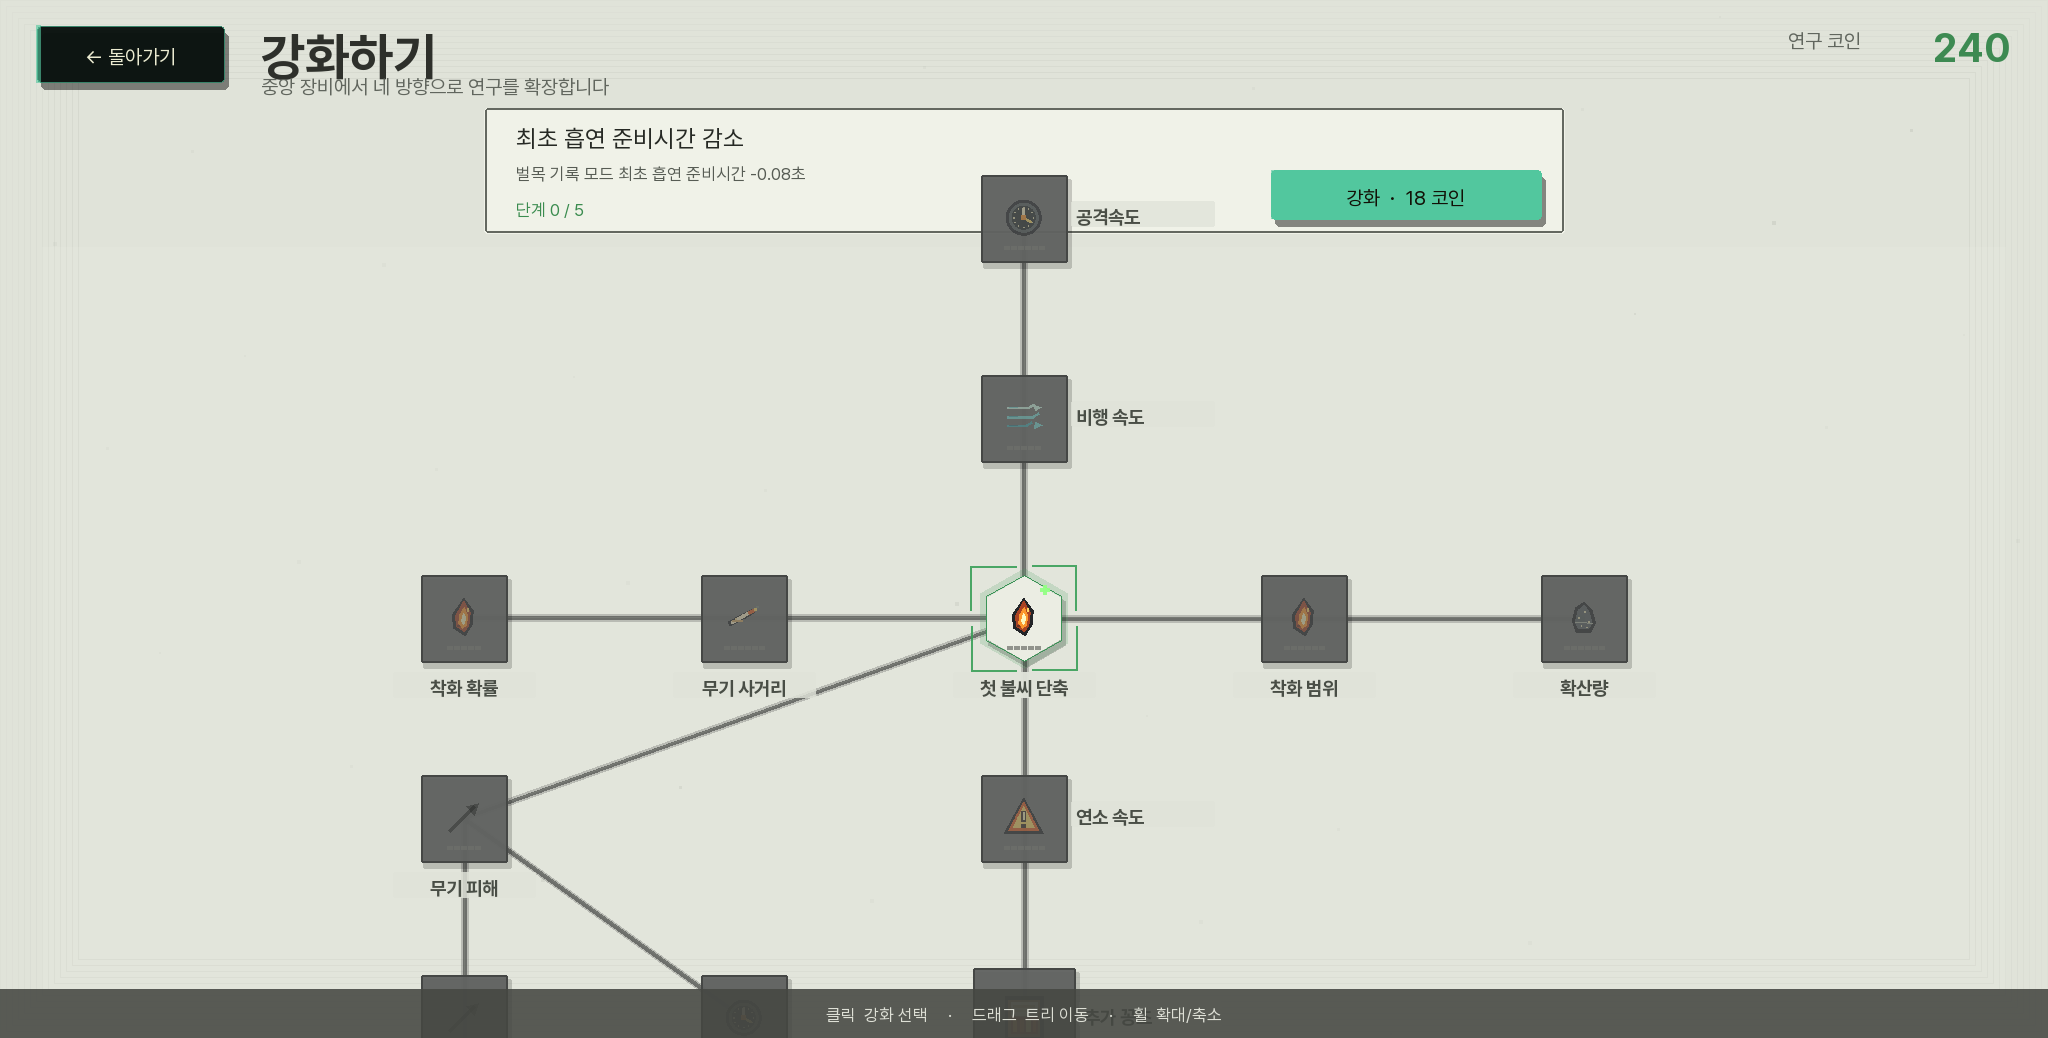
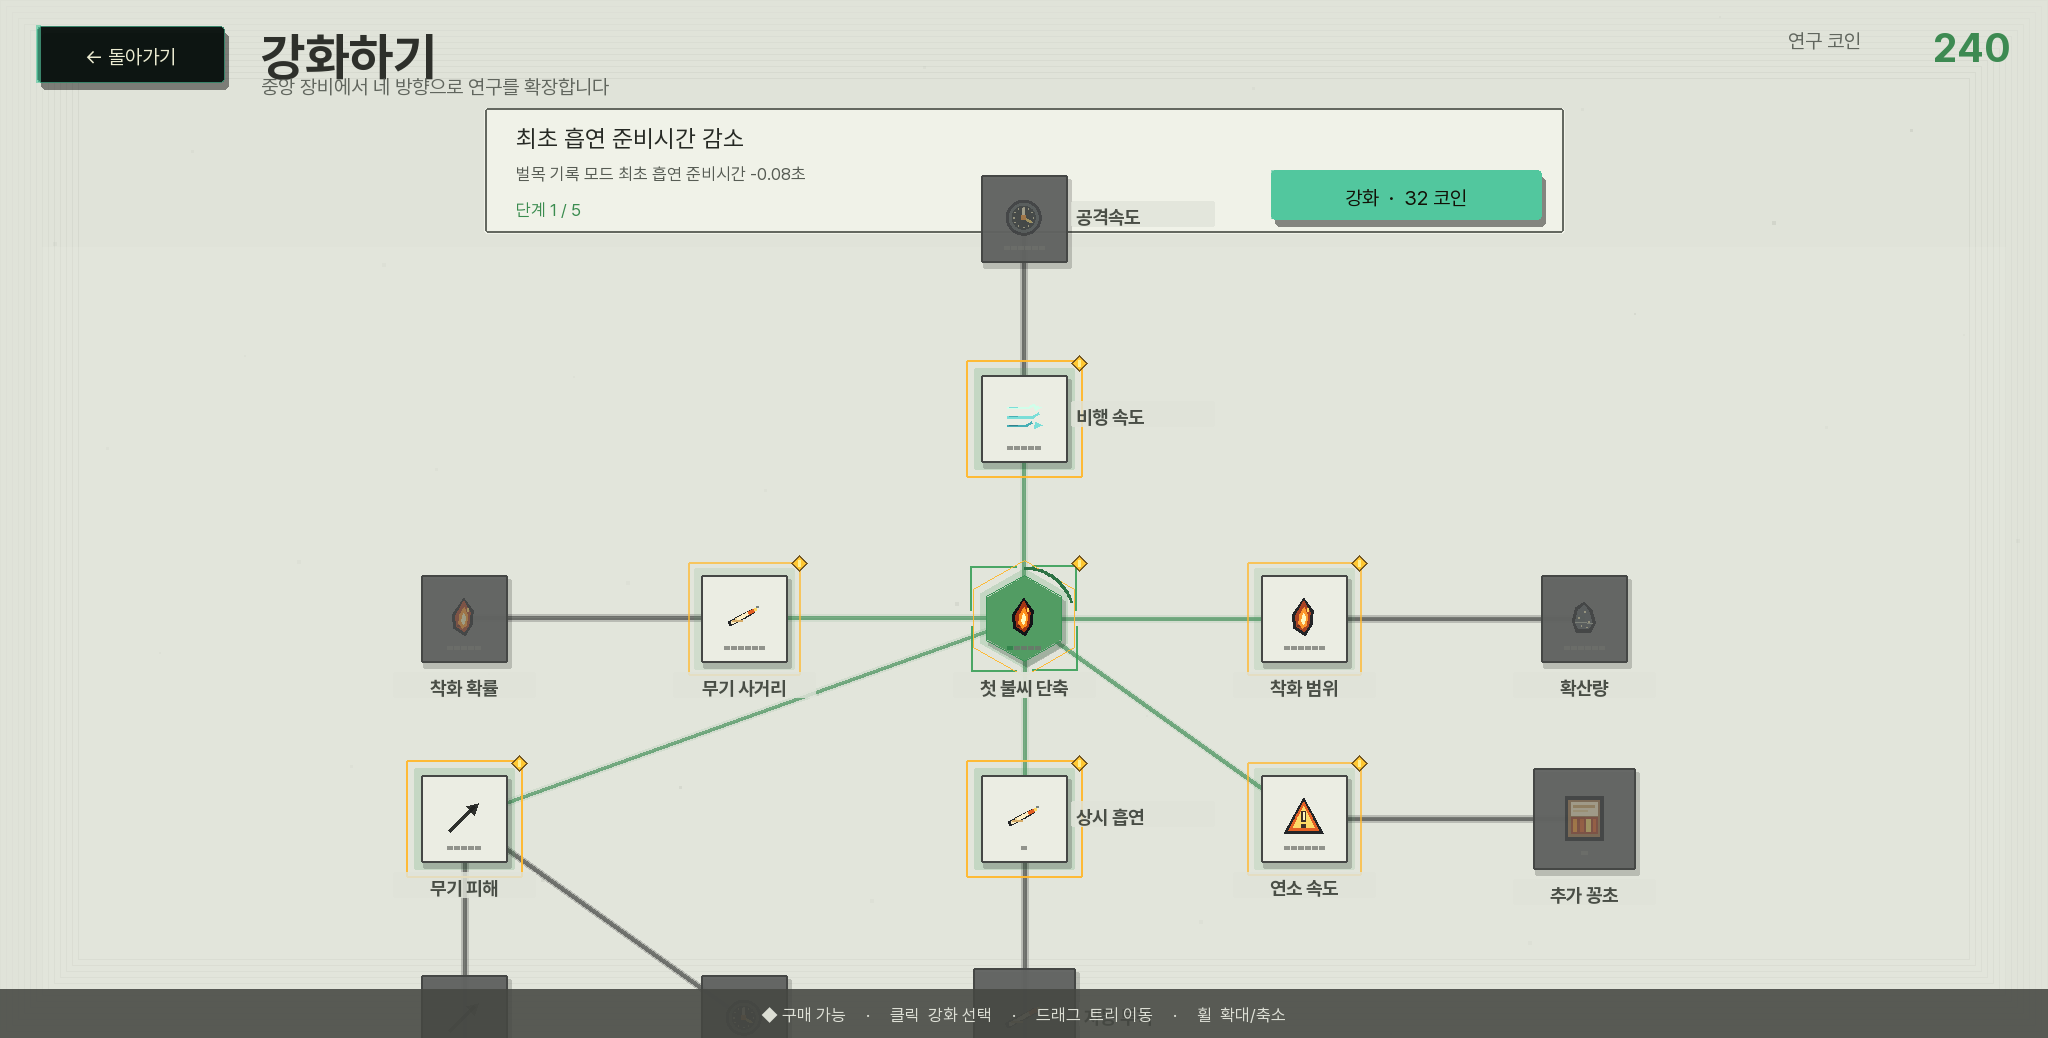
Expose early axe smoking reload upgrade

diff --git a/docs/character_dossier.html b/docs/character_dossier.html
@@ -504,6 +504,7 @@ const TRAITS = {
       {id:"fire_claim",name:"실화 책임 전면 부인",short:"책임 없음",desc:"연구 코인 +14%",max:1,costs:[135],requires:[["fire_emberstorm",2],["fire_press",2]],capstone:true},
       {id:"fire_redsky",name:"하늘이 붉은 건 노을",short:"최종 산불",desc:"착화 범위 +42",max:1,costs:[190],requires:[["fire_claim",1]],capstone:true},
       {id:"fire_score_prewarm",name:"최초 흡연 준비시간 감소",short:"첫 불씨 단축",desc:"벌목 기록 모드 최초 흡연 준비시간 -0.08초",max:5,costs:[18,32,50,74,104]},
+      {id:"fire_score_alwayssmoke",name:"상시 흡연",short:"상시 흡연",desc:"다른 무기를 들고 있어도 계속 담배를 피웁니다. 담배로 바꾼 즉시 던질 수 있습니다.",max:1,costs:[200],requires:[["fire_score_prewarm",1]]},
       {id:"fire_score_filter",name:"무기 사거리 상승",short:"무기 사거리",desc:"무기 사거리 +16",max:6,costs:[18,32,50,74,104,142],requires:[["fire_score_prewarm",1]]},
       {id:"fire_score_lighter",name:"착화 범위 상승",short:"착화 범위",desc:"꽁초가 불씨를 옮기는 착화 반경 +12",max:6,costs:[18,32,50,74,104,142],requires:[["fire_score_prewarm",1]]},
       {id:"fire_score_spark",name:"꽁초 착화 확률 상승",short:"착화 확률",desc:"꽁초의 착화 성공 확률 +1.2%p",max:5,costs:[18,32,50,74,104],requires:[["fire_score_filter",2]]},
@@ -520,7 +521,6 @@ const TRAITS = {
       {id:"fire_score_axe_shock",name:"도끼 충격파",short:"충격파",desc:"나무를 쓰러뜨리면 주변 나무에 단계마다 2 피해를 줍니다. 범위는 단계마다 34 넓어집니다.",max:3,costs:[90,150,230],requires:[["fire_score_axe_targets",2]]},
       {id:"fire_score_axe_chain",name:"연속 벌목",short:"연속 벌목",desc:"나무를 쓰러뜨리면 단계마다 18% 확률로 도끼 재사용 대기시간이 즉시 초기화됩니다.",max:3,costs:[90,150,230],requires:[["fire_score_axe_execute",3]]},
       {id:"fire_score_axe_crew",name:"도끼 원숭이 해금",short:"도끼 원숭이",desc:"졸업 원숭이 1마리가 합류하고 도끼를 넘겨받습니다. I 장비 가방에서 원숭이 무기를 담배·도끼·폭죽으로 교체할 수 있습니다.",max:1,costs:[800],requires:[["fire_score_axe_shock",3],["fire_score_axe_chain",3]],capstone:true},
-      {id:"fire_score_alwayssmoke",name:"상시 흡연",short:"상시 흡연",desc:"다른 무기를 들고 있어도 계속 담배를 피웁니다. 담배로 바꾼 즉시 던질 수 있습니다.",max:1,costs:[200],requires:[["fire_score_stock",1]],capstone:true},
       {id:"fire_score_autothrow",name:"담배 자동 투척",short:"자동 투척",desc:"어떤 무기를 들고 있든 2.6초마다 꽁초가 자동으로 날아갑니다. 담배를 직접 들면 수동 투척이 그 위에 더해집니다.",max:1,costs:[240],requires:[["fire_score_alwayssmoke",1]],capstone:true},
       {id:"fire_score_rocket_unlock",name:"폭죽 로켓 해금",short:"폭죽 해금",desc:"장비 가방에 폭죽 로켓이 추가됩니다. 플레이어의 장착 무기 2칸이나 졸업 원숭이 장비 칸에 넣을 수 있습니다.",max:1,costs:[260],requires:[["fire_score_autothrow",1]],capstone:true},
       {id:"fire_score_rocket_radius",name:"폭죽 폭발 반경 상승",short:"폭발 반경",desc:"폭죽 로켓의 폭발 반경 +16",max:5,costs:[18,32,50,74,104],requires:[["fire_score_rocket_unlock",1]]},

diff --git a/docs/SYSTEM_MAP.md b/docs/SYSTEM_MAP.md
@@ -46,7 +46,7 @@
 | 코인 | 노드 | 효과 |
 |---:|---|---|
 | — | (기본) | 담배는 손에 들어야만 피운다. 슬롯을 바꾸면 한 모금 빨 시간을 기다린다. |
-| 200 | 상시 흡연 | 무엇을 들고 있든 재장전이 흐른다. 바꾼 즉시 던지고 도끼로 돌아온다. |
+| 200 | 상시 흡연 | 루트 바로 다음 두 번째 노드. 무엇을 들고 있든 재장전이 흐르고, 바꾼 즉시 던지고 도끼로 돌아온다. |
 | 240 | 담배 자동 투척 | 2.6초마다 알아서 날아간다. 수동 주기(약 2.2초)보다 느린 대신 손이 빈다. |
 | 260 | 폭죽 로켓 해금 | 빈 손으로 쏘는 원거리 광역 무기. 해금 전 3번 슬롯은 자물쇠로 잠긴다. |
 
